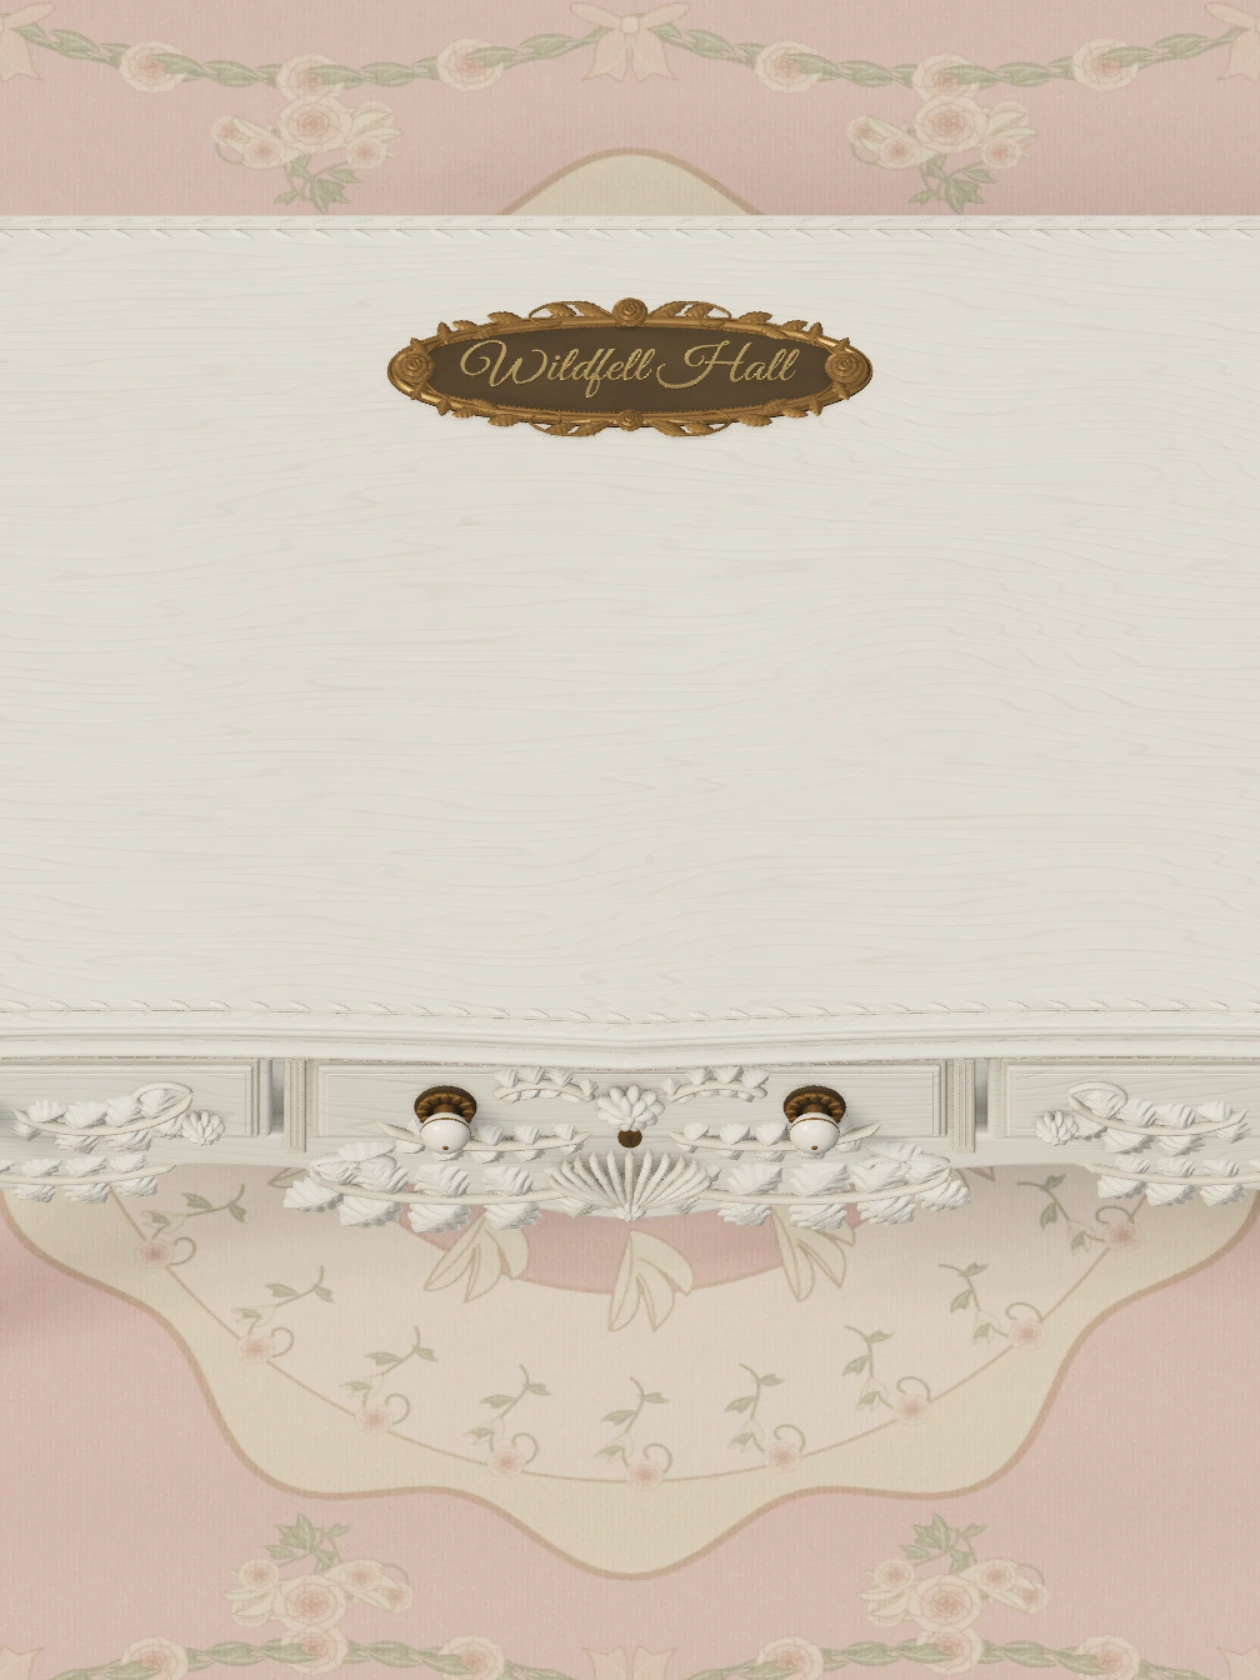
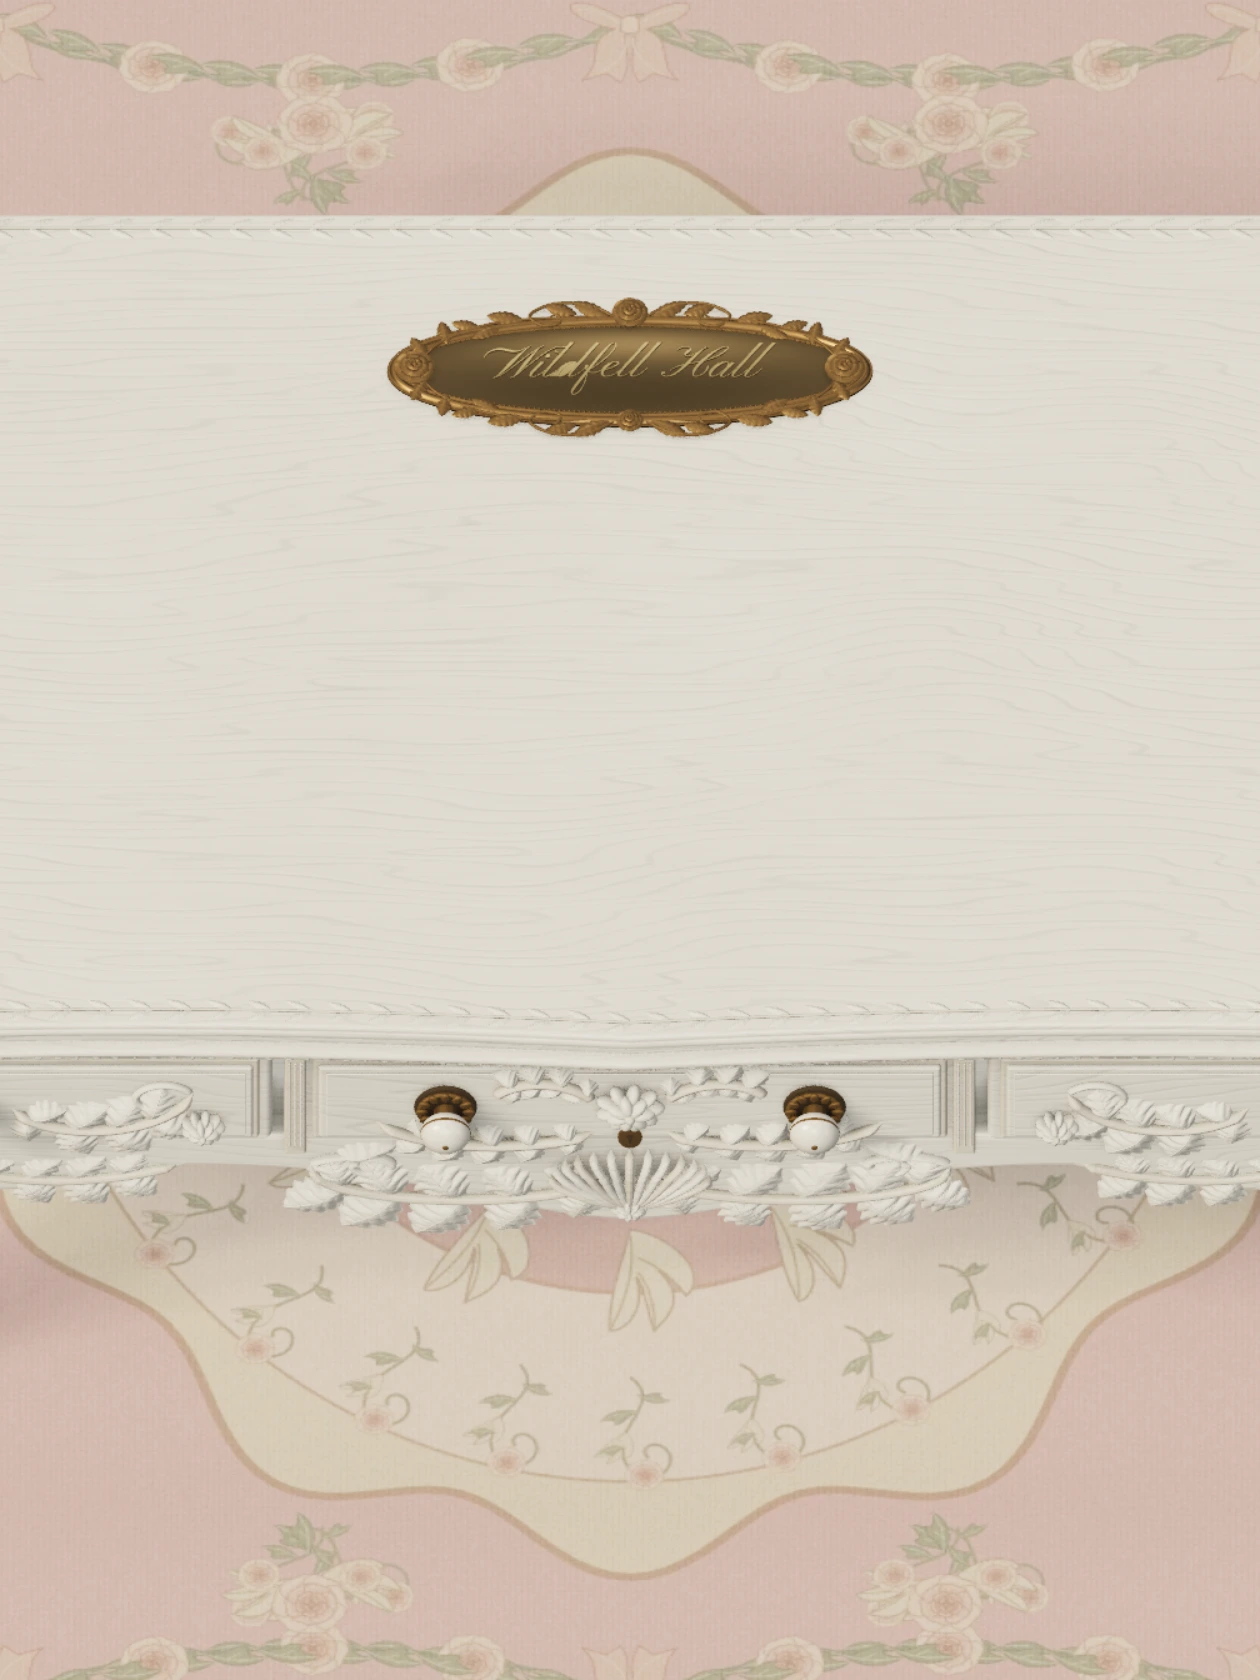
Give the crest brushed bronze and smaller English roundhand lettering

Changed region(s): [[0.3714, 0.1857, 0.619, 0.2476]]

diff --git a/src/name-crest.js b/src/name-crest.js
@@ -1,16 +1,16 @@
 import * as THREE from 'three';
 import { mergeGeometries } from 'three/addons/utils/BufferGeometryUtils.js';
 
-const FIELD_RX = 2.30, FIELD_RY = .555;
+const FIELD_RX = 2.30, FIELD_RY = .555, FIELD_CROWN = .026;
 
 export function crestFieldHeight(x, y) {
   const radius = Math.min(1, (x / FIELD_RX) ** 2 + (y / FIELD_RY) ** 2);
-  return .052 + .014 * (1 - radius) ** 2;
+  return .052 + FIELD_CROWN * (1 - radius) ** 2;
 }
 
 export function crestFieldGradient(x, y, target) {
   const falloff = Math.max(0, 1 - (x / FIELD_RX) ** 2 - (y / FIELD_RY) ** 2);
-  return target.set(-.056 * x / FIELD_RX ** 2 * falloff, -.056 * y / FIELD_RY ** 2 * falloff);
+  return target.set(-4 * FIELD_CROWN * x / FIELD_RX ** 2 * falloff, -4 * FIELD_CROWN * y / FIELD_RY ** 2 * falloff);
 }
 
 function crownedField() {
@@ -30,22 +30,33 @@ function crownedField() {
   return geometry;
 }
 
-function patinatedField() {
-  const w = 512, h = 128, pixels = new Uint8Array(w * h * 4); let seed = 1876;
+function brushedBronze() {
+  const w = 1024, h = 256;
+  const colour = new Uint8Array(w * h * 4), roughness = new Uint8Array(w * h * 4), normal = new Uint8Array(w * h * 4);
+  let seed = 1876;
   for (let y = 0; y < h; y++) for (let x = 0; x < w; x++) {
     seed = (Math.imul(seed, 1664525) + 1013904223) >>> 0;
     const grain = seed / 4294967296 - .5;
-    const bloom = Math.sin(x * .027 + Math.sin(y * .063)) * Math.sin(y * .052 + x * .012);
     const radius = Math.hypot(x / (w - 1) * 2 - 1, y / (h - 1) * 2 - 1);
-    // Gentle oxidation and handling wear vary the material's albedo. Light
-    // and contact shadows still come entirely from the physical scene.
-    const wear = 1 + bloom * .045 + grain * .035 - THREE.MathUtils.smoothstep(radius, .72, 1) * .07;
-    pixels.set([94 * wear, 79 * wear, 56 * wear, 255], (y * w + x) * 4);
+    const edge = THREE.MathUtils.smoothstep(radius, .82, 1);
+    const brushing = Math.sin(y * 1.81 + Math.sin(x * .013) * .16) * .55 + Math.sin(y * 2.73 + x * .001) * .25;
+    // Directional polishing marks perturb the reflection, not the painted
+    // colour. Oxidation stays in the protected lip of the cast bronze field.
+    const wear = 1 - edge * .075 + grain * .009;
+    const r = 205 + edge * 20 + brushing * 7 + grain * 9;
+    const i = (y * w + x) * 4;
+    colour.set([166 * wear, 139 * wear, 91 * wear, 255], i);
+    roughness.set([r, r, r, 255], i);
+    normal.set([128 + grain * .8, 128 + brushing * 5 + grain, 255, 255], i);
   }
-  const texture = new THREE.DataTexture(pixels, w, h); texture.colorSpace = THREE.SRGBColorSpace;
-  texture.minFilter = THREE.LinearMipmapLinearFilter; texture.magFilter = THREE.LinearFilter;
-  texture.generateMipmaps = true; texture.needsUpdate = true;
-  return texture;
+  const textures = [colour, roughness, normal].map(pixels => {
+    const texture = new THREE.DataTexture(pixels, w, h);
+    texture.minFilter = THREE.LinearMipmapLinearFilter; texture.magFilter = THREE.LinearFilter;
+    texture.generateMipmaps = true; texture.needsUpdate = true;
+    return texture;
+  });
+  textures[0].colorSpace = THREE.SRGBColorSpace;
+  return textures;
 }
 
 // All of the metalwork is modelled in the plaque's plane, with +Z facing out.
@@ -144,12 +155,14 @@ function workedMetal() {
 
 export function createNameCrestMetalwork(brass) {
   const group = new THREE.Group(); group.name = 'oval-floral-name-crest';
-  // Match the hardware's brass on the exposed relief. The protected field
-  // retains a darker oxide patina, contrasting with its polished inscription.
+  // The gold relief surrounds a polished bronze field. A conducting surface
+  // and directional reflections keep the inset recognisably metallic.
   const texture = workedMetal(), cast = brass.clone();
   cast.roughnessMap = cast.bumpMap = texture; cast.roughness = .55; cast.bumpScale = .00055;
-  const satin = cast.clone(); satin.color.set('#ffffff'); satin.map = patinatedField();
-  satin.metalness = .72; satin.roughness = .82; satin.bumpScale = .00075;
+  const [map, roughnessMap, normalMap] = brushedBronze();
+  const satin = new THREE.MeshPhysicalMaterial({ map, roughnessMap, normalMap,
+    metalness: .98, roughness: .24, anisotropy: .40, anisotropyRotation: 0,
+    normalScale: new THREE.Vector2(.20, .20) });
   const burnished = cast.clone(); burnished.roughness = .40;
   function mesh(geometry, material, name) {
     const object = new THREE.Mesh(geometry, material); object.name = name;

diff --git a/src/ornaments.js b/src/ornaments.js
@@ -5,13 +5,13 @@ import { desktopOutline, perimeterFrame, legProfile } from './furniture-profiles
 import { createNameCrestMetalwork, crestFieldHeight, crestFieldGradient } from './name-crest.js';
 
 export async function createEmbossing(surfaceY, brass) {
-  const svg = await new SVGLoader().loadAsync(`${import.meta.env.BASE_URL}ornaments/wildfell-hall.svg`);
+  const svg = await new SVGLoader().loadAsync(`${import.meta.env.BASE_URL}ornaments/wildfell-hall.svg?v=roundhand-1`);
   const geometry = new THREE.ExtrudeGeometry(svg.paths.flatMap(path => SVGLoader.createShapes(path)), {
-    depth: 4, bevelEnabled: true, bevelThickness: 1, bevelSize: .85, bevelSegments: 5, curveSegments: 24,
+    depth: 4, bevelEnabled: true, bevelThickness: .8, bevelSize: .32, bevelSegments: 5, curveSegments: 28,
   });
   geometry.computeBoundingBox();
   const box = geometry.boundingBox, center = box.getCenter(new THREE.Vector3());
-  const scale = 3.42 / (box.max.x - box.min.x);
+  const scale = 2.95 / (box.max.x - box.min.x);
   geometry.translate(-center.x, -center.y, 0);
   geometry.scale(scale, -scale, .022 / 4);
   reverseWinding(geometry); geometry.computeVertexNormals();
@@ -28,7 +28,7 @@ export async function createEmbossing(surfaceY, brass) {
     normal.set(normal.x - gradient.x * normal.z, normal.y - gradient.y * normal.z, normal.z).normalize();
     normals.setXYZ(i, normal.x, normal.y, normal.z);
   }
-  const face = brass.clone(); face.color.set('#e2c581'); face.metalness = .90; face.roughness = .28;
+  const face = brass.clone(); face.color.set('#f2d995'); face.metalness = .95; face.roughness = .30;
   const bevel = brass.clone(); bevel.color.set('#bb9857'); bevel.roughness = .29;
   const lettering = new THREE.Mesh(geometry, [face, bevel]);
   lettering.position.z = .001;

diff --git a/index.html b/index.html
@@ -13,9 +13,9 @@
     <main id="room" aria-label="An antique white wooden writing desk">
       <div id="desk-fallback" aria-hidden="true">
         <picture>
-          <source media="(min-aspect-ratio: 3/2)" srcset="./materials/desk-still-wide.webp?v=crest-2" />
-          <source media="(max-aspect-ratio: 3/4)" srcset="./materials/desk-still-portrait.webp?v=crest-2" />
-          <img src="./materials/desk-still.webp?v=crest-2" alt="" fetchpriority="high" />
+          <source media="(min-aspect-ratio: 3/2)" srcset="./materials/desk-still-wide.webp?v=crest-3" />
+          <source media="(max-aspect-ratio: 3/4)" srcset="./materials/desk-still-portrait.webp?v=crest-3" />
+          <img src="./materials/desk-still.webp?v=crest-3" alt="" fetchpriority="high" />
         </picture>
       </div>
       <h1 class="sr-only">Wildfell Hall</h1>
